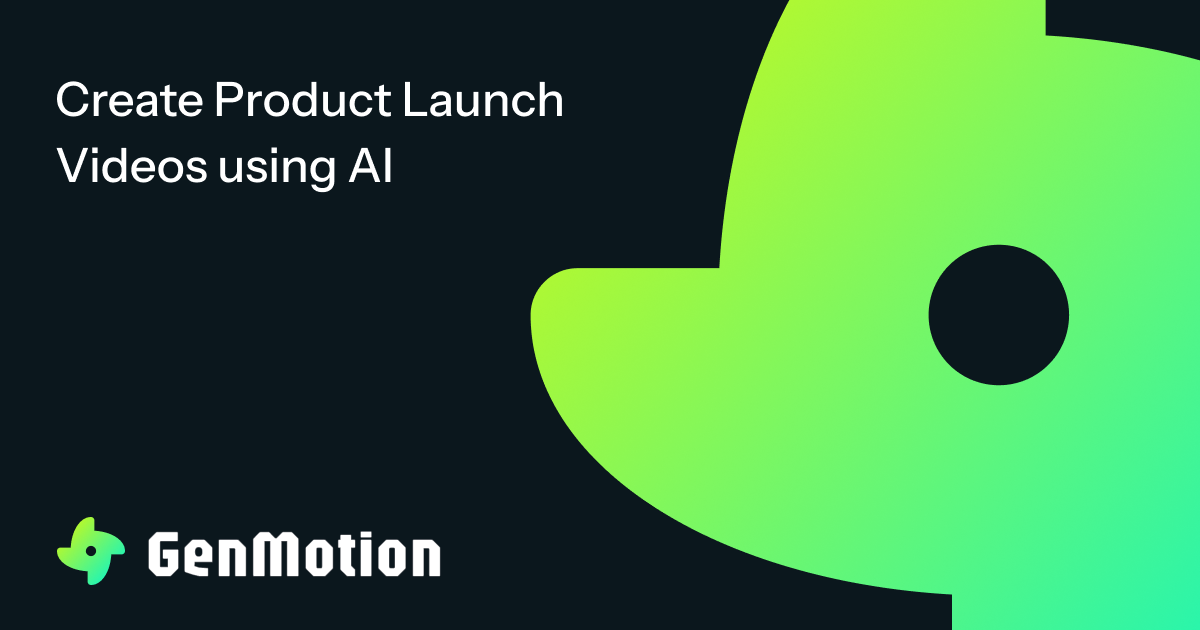
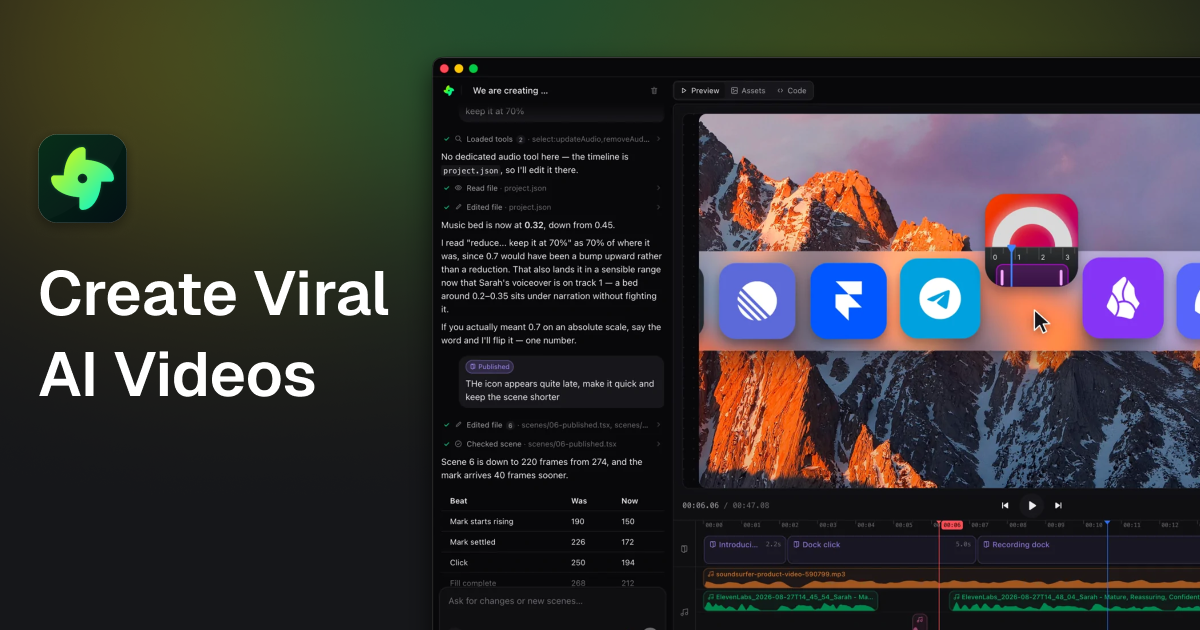
homepage: retitle hero to viral AI videos and add Codex mark
Swaps the hero/meta copy from "launch videos" to "AI videos", rounds
the Claude mark's background, adds a real colored Codex logo (replacing
the monochrome masked PNG) stacked alongside Claude in both the hero
and the agent badge row, and refreshes the default OG image to match.

diff --git a/apps/web/src/components/marketing/agent-badges.tsx b/apps/web/src/components/marketing/agent-badges.tsx
@@ -24,6 +24,40 @@ export function ClaudeMark({ className }: { className?: string }) {
   );
 }
 
+const CODEX_PATH =
+  "M84.3 5.1q3.7-1.5 7.7-2.6 3.9-1 7.9-1.6 4-0.5 8.1-0.6 4 0 8 0.5 20.7 2.4 37.1 17.7 0.1 0.1 0.4 0.3 0.1 0 0.2 0 0 0 0.2 0 0 0 0.1 0 0 0 0.1 0 5.2-1.4 10.7-1.9 5.4-0.4 10.7 0.1 5.5 0.4 10.7 1.9 5.2 1.3 10.1 3.6l0.6 0.4 1.6 0.8q5.2 2.5 9.7 6.1 4.7 3.4 8.6 7.7 3.8 4.3 6.9 9.2 3 4.8 5.2 10.2 4.3 10.5 4.3 22.1 0.2 2.1 0 4.2-0.1 2.2-0.2 4.3-0.3 2.1-0.7 4.3-0.4 2.1-0.9 4.1 0 0.2 0 0.4 0 0.2 0 0.5 0 0.1 0.1 0.4 0.1 0.1 0.3 0.3 12.3 12.6 16.3 30 6 29.7-12.2 53.5l-1.9 2.2q-3 3.5-6.5 6.4-3.4 3.1-7.3 5.5-3.8 2.4-8.1 4.2-4.1 1.9-8.5 3.2-0.3 0-0.4 0.2-0.3 0-0.4 0.1-0.1 0.1-0.3 0.4 0 0.1-0.1 0.3c-2.7 7.7-5.3 14.2-10.2 20.7-12.5 16.5-30.8 25.5-51.5 25.5q-24.6-0.1-43.6-18.1-0.2-0.1-0.4-0.2-0.2-0.1-0.4-0.1-0.2 0-0.3 0-0.3 0-0.4 0c-5.4 1.7-10.9 1.9-16.7 1.9q-3.5 0-7-0.5-3.4-0.4-6.9-1.2-3.3-0.8-6.6-2-3.3-1.2-6.4-2.8-3.3-1.6-6.4-3.6-3-2-5.8-4.3-3-2.3-5.5-5-2.5-2.6-4.6-5.6c-2.2-2.7-4.3-5.4-5.8-8.5q-0.8-1.6-1.6-3.2-0.6-1.7-1.3-3.3-0.7-1.7-1.2-3.4-0.5-1.6-1-3.4-1.1-4-1.6-7.9-0.6-4-0.6-8 0-4 0.6-8 0.4-4 1.4-8 0 0 0-0.1 0-0.1 0-0.1 0.2-0.2 0.2-0.3 0-0.1-0.2-0.1 0-0.2 0-0.3 0-0.1-0.1-0.1 0-0.2 0-0.2-0.1-0.1-0.1-0.1-2.4-2.5-4.6-5.2-2.1-2.7-4-5.4-1.7-3-3.2-6-1.5-3.1-2.6-6.3-0.8-2-1.3-4.1-0.7-2-1.1-4-0.4-2.1-0.7-4.2-0.2-2.2-0.4-4.3-0.2-2.8-0.1-5.6 0-2.8 0.3-5.4 0.1-2.8 0.6-5.6 0.4-2.8 1.1-5.5 7-23.1 26.9-36.3 4.3-2.9 8.2-4.5 4.5-1.9 9-3.2 0.2 0 0.3-0.1 0.1-0.2 0.3-0.3 0.1 0 0.1-0.3 0.1-0.1 0.1-0.2 1-3.1 2.2-6 1-2.9 2.5-5.7 1.5-3 3.2-5.6 1.7-2.7 3.7-5.1 2.5-3.2 5.3-5.9 3-2.8 6.1-5.4 3.2-2.4 6.8-4.4 3.5-2 7.2-3.5zm48.3 146.4c-2.3 0.1-4.4 1-6 2.8-1.5 1.6-2.4 3.7-2.4 5.9 0 2.3 0.9 4.4 2.4 6.2 1.6 1.6 3.7 2.5 6 2.6h50.4c2.4 0.1 4.8-0.6 6.5-2.4 1.7-1.6 2.8-4 2.8-6.4 0-2.4-1.1-4.7-2.8-6.3-1.7-1.8-4.1-2.6-6.5-2.4zm-56.7-64.9c-1.2-1.9-3-3.4-5.3-3.9-2.2-0.5-4.5-0.3-6.5 0.9-2 1.1-3.5 3-4.1 5.2-0.7 2.2-0.4 4.6 0.6 6.5l17.7 30.9-17.5 29.5c-1.2 2-1.6 4.5-1.1 6.8 0.7 2.3 2.1 4.1 4.1 5.3 2 1.2 4.4 1.6 6.7 0.9 2.2-0.5 4.2-1.9 5.4-3.9l20.1-34.1q0.7-0.9 0.9-2.1 0.3-1.1 0.3-2.3 0-1.2-0.3-2.2-0.2-1.2-0.8-2.2z";
+
+/**
+ * Codex's mark, in its own violet-to-blue gradient. `gradientId` must be
+ * unique per render — SVG gradient ids are document-global, so two instances
+ * on the same page (hero + badge row) would otherwise fight over one def.
+ */
+export function CodexMark({
+  className,
+  gradientId,
+}: {
+  className?: string;
+  gradientId: string;
+}) {
+  return (
+    <svg viewBox="0 0 250 250" className={className} aria-hidden>
+      <defs>
+        <linearGradient
+          id={gradientId}
+          gradientUnits="userSpaceOnUse"
+          gradientTransform="matrix(0,249.335,-249.128,0,125,.332)"
+          x2="1"
+        >
+          <stop stopColor="#b1a7ff" />
+          <stop offset="0.5" stopColor="#7a9dff" />
+          <stop offset="1" stopColor="#3941ff" />
+        </linearGradient>
+      </defs>
+      <path fill={`url(#${gradientId})`} d={CODEX_PATH} />
+    </svg>
+  );
+}
+
 /**
  * One glyph in its own disc. No border and a translucent fill, so where the
  * discs overlap the one underneath shows through rather than being cut out —
@@ -46,8 +80,8 @@ function Disc({ children, className }: { children: React.ReactNode; className?: 
  * The two agents GenMotion drives, as overlapping discs beside a line of copy.
  *
  * The marks keep their own identity rather than being flattened to one tint:
- * Claude's is its brand orange, Codex's the monochrome mark OpenAI ships. That
- * is the point of showing them at all — they are the thing a visitor already
+ * Claude's is its brand orange, Codex's its violet-to-blue gradient. That is
+ * the point of showing them at all — they are the thing a visitor already
  * recognises and already pays for.
  */
 export function AgentBadges({ className }: { className?: string }) {
@@ -60,25 +94,7 @@ export function AgentBadges({ className }: { className?: string }) {
           <ClaudeMark className="size-[1.15rem]" />
         </Disc>
         <Disc>
-          {/* OpenAI ships no public SVG of this mark and it isn't in the icon
-              set we use, so the glyph is the template image the Codex app puts
-              in the macOS menu bar, painted through a mask so it takes a colour
-              like any other icon here. */}
-          <span
-            role="img"
-            aria-hidden
-            className="size-[1.05rem] bg-text-primary"
-            style={{
-              maskImage: "url(/codex-mark.png)",
-              WebkitMaskImage: "url(/codex-mark.png)",
-              maskSize: "contain",
-              WebkitMaskSize: "contain",
-              maskRepeat: "no-repeat",
-              WebkitMaskRepeat: "no-repeat",
-              maskPosition: "center",
-              WebkitMaskPosition: "center",
-            }}
-          />
+          <CodexMark className="size-[1.05rem]" gradientId="codex-badge" />
         </Disc>
       </span>
       <span className="text-left text-[0.95rem] text-text-secondary">

diff --git a/apps/web/src/app/(marketing)/page.tsx b/apps/web/src/app/(marketing)/page.tsx
@@ -16,7 +16,7 @@ import { FaqSection } from "@/components/marketing/faq";
 import { FeatureIcon } from "@/components/marketing/icons";
 import { ShowcaseStack } from "@/components/marketing/showcase-stack";
 import { TiltedScreenshot } from "@/components/marketing/tilted-screenshot";
-import { AgentBadges, ClaudeMark } from "@/components/marketing/agent-badges";
+import { AgentBadges, ClaudeMark, CodexMark } from "@/components/marketing/agent-badges";
 import { TemplateMasonry } from "@/components/marketing/template-masonry";
 import { IntegrationsSection } from "@/components/marketing/integrations-section";
 import { FEATURES } from "@/lib/marketing/features";
@@ -40,7 +40,7 @@ const homeJsonLd = {
 };
 
 export const metadata: Metadata = pageMetadata({
-  title: "AI Product Launch Video Generator — GenMotion",
+  title: "Create viral AI videos using Claude Code — GenMotion",
   description:
     "Generate a product launch video with AI. Describe it in plain language and GenMotion's agent animates it as real scenes, previews it frame-accurately, and exports a pixel-perfect MP4.",
   path: "/",
@@ -166,11 +166,20 @@ export default async function HomePage() {
           {/* Balanced wrapping instead of a hardcoded <br />: the line is long
               enough that a fixed break lands badly at one of the two sizes. */}
           <h1 className="max-w-3xl text-balance font-display text-4xl font-medium tracking-tight sm:text-6xl">
-            Create <span className="chromatic-word">viral</span> launch videos using{" "}
+            Create <span className="chromatic-word">viral</span> AI videos using{" "}
             {/* Kept on one line as a unit: the mark belongs to the name, and a
                 wrap between them would leave it orphaned at a line end. */}
             <span className="inline-flex items-center gap-2 whitespace-nowrap align-baseline sm:gap-3">
-              <ClaudeMark className="size-[0.8em] shrink-0" />
+              {/* Stacked like the badge row below: Claude in front, Codex
+                  peeking out behind it — both models this runs on. */}
+              <span className="inline-flex items-center -space-x-2 sm:-space-x-2.5">
+                <span className="inline-flex size-[1.35em] shrink-0 items-center justify-center rounded-full bg-[#D97757]/15 ring-2 ring-background">
+                  <ClaudeMark className="size-[0.8em]" />
+                </span>
+                <span className="inline-flex size-[1.35em] shrink-0 items-center justify-center rounded-full bg-surface-raised ring-2 ring-background">
+                  <CodexMark className="size-[0.8em]" gradientId="codex-hero" />
+                </span>
+              </span>
               Claude Code
             </span>
           </h1>

diff --git a/apps/web/src/lib/marketing/seo.ts b/apps/web/src/lib/marketing/seo.ts
@@ -17,7 +17,7 @@ export const OG_IMAGE = {
   url: "/og.png",
   width: 1200,
   height: 630,
-  alt: "GenMotion — create product launch videos using AI",
+  alt: "GenMotion — create viral AI videos using Claude Code",
 } as const;
 
 /**
